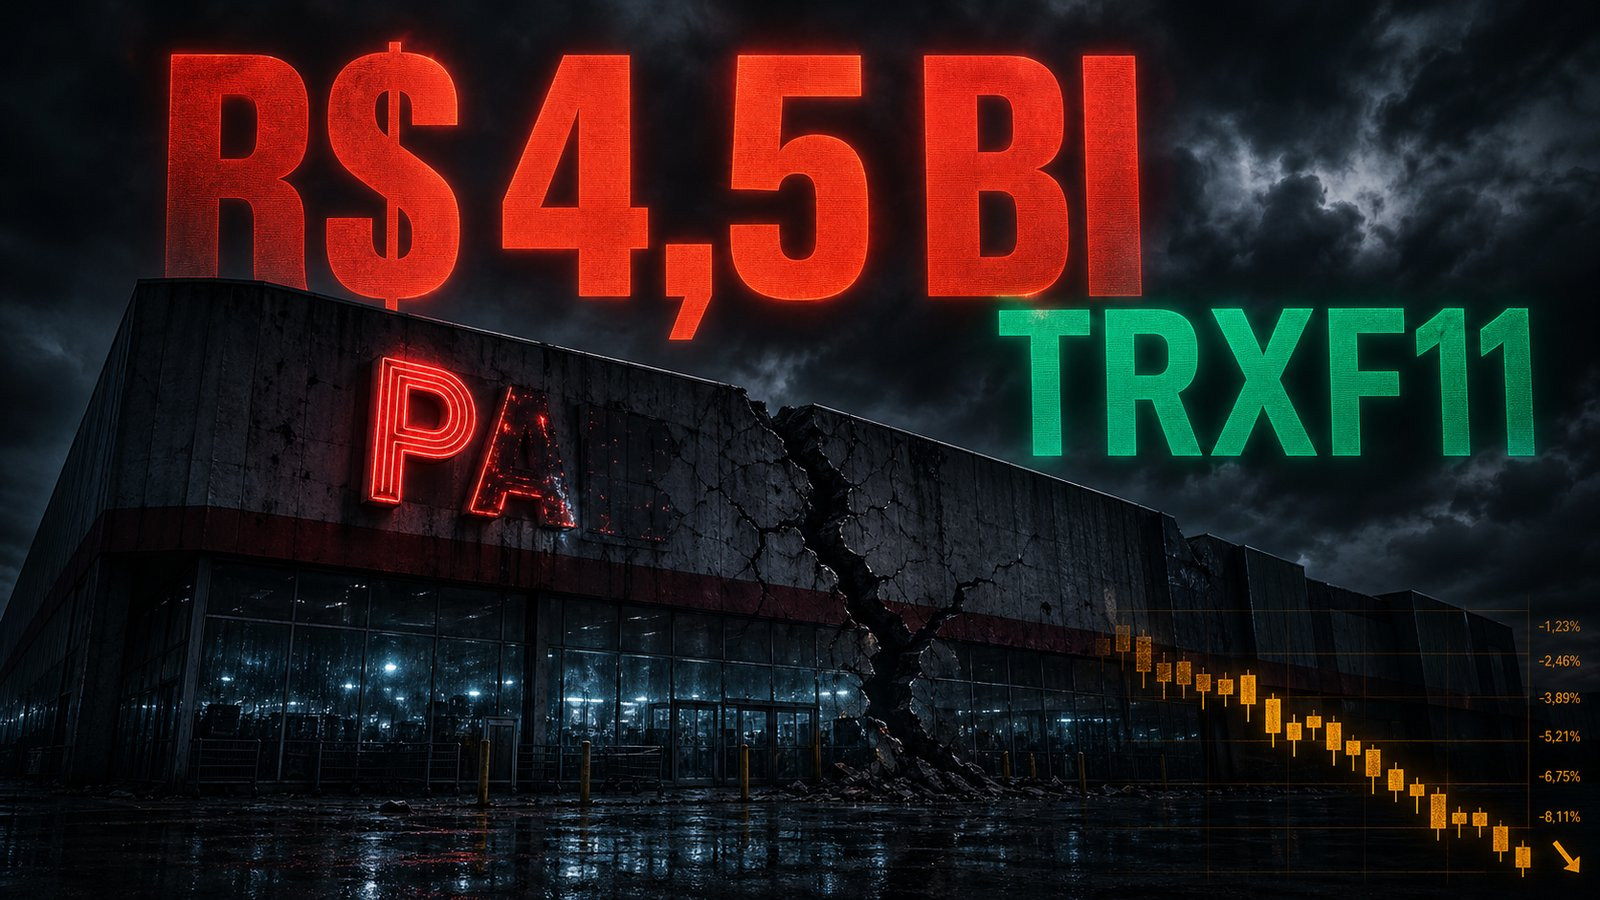
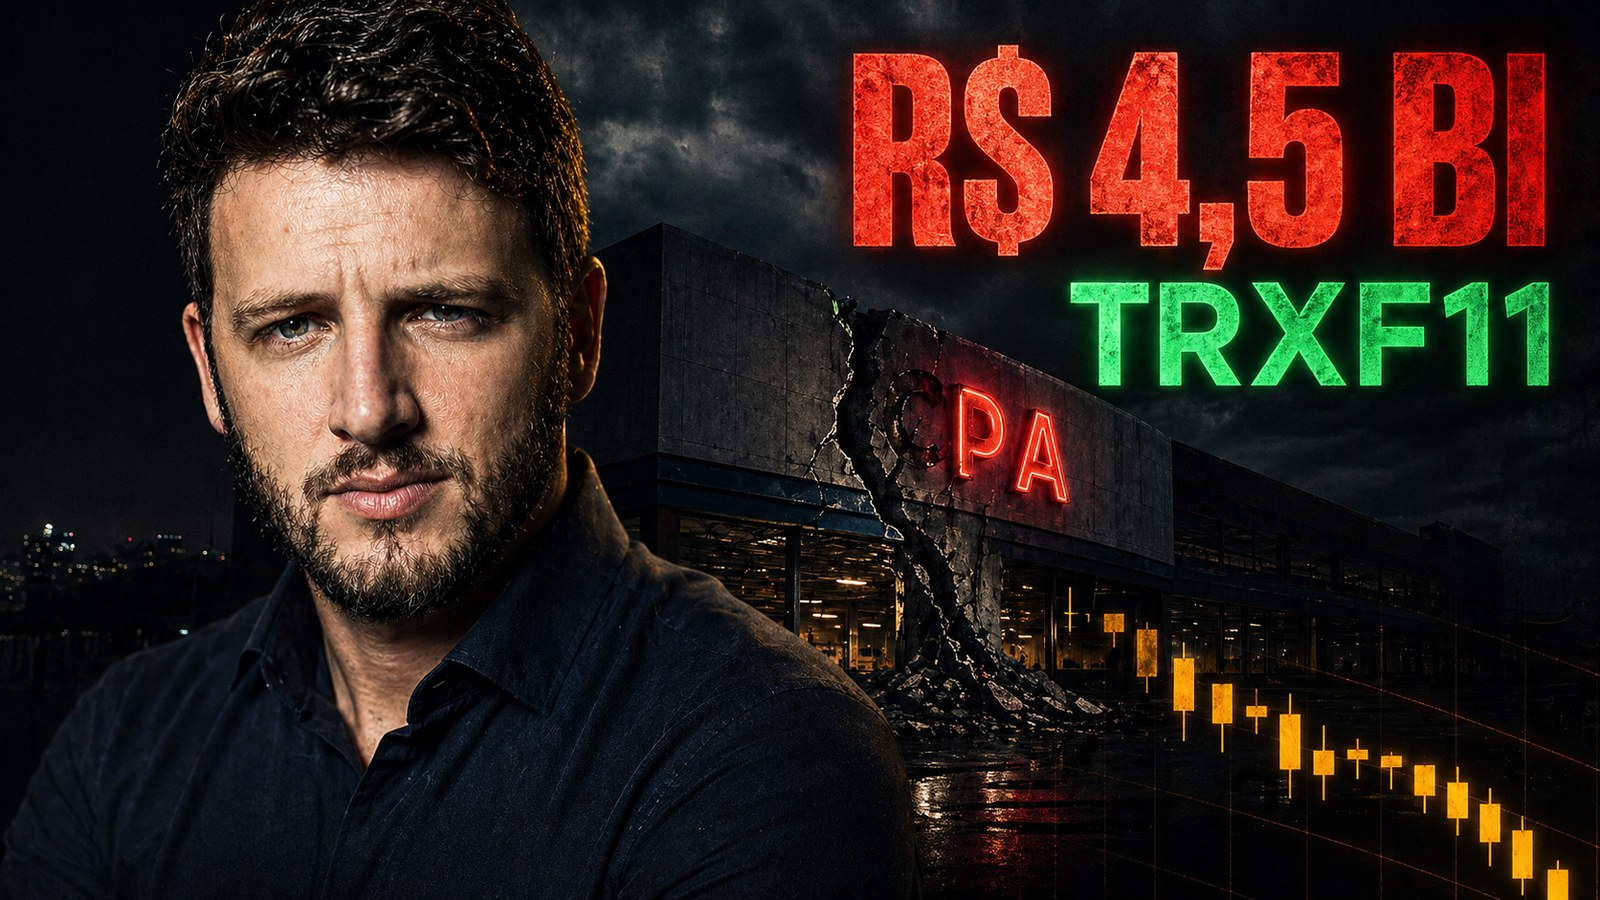
feat(artigo): TRXF11 v2 — título mais agressivo + capa com rosto do autor
Iteração v2 do artigo TRXF11 com base em feedback do autor:

- Título mais provocativo (com metáfora visual da rachadura, casando com a
  capa): "TRXF11: tem uma rachadura de R$ 4,5 bilhões debaixo de 24% do seu
  dividendo". Mantém 100% factual; provoca clique sem ser fake.
- Subtítulo aprimorado com hook "antes de você decidir vender, leia até o fim".
- Callout danger reformulado para "agride e apazigua" — provoca e já no mesmo
  parágrafo entrega o spoiler que mantém o leitor.
- Nova capa gerada via ChatGPT com o rosto do autor em primeiro plano,
  expressão séria/preocupada, supermercado decadente em segundo plano com
  rachadura, tipografia editorial pesada (R$ 4,5 BI / TRXF11). Padrão de
  conversão YouTube de finanças aplicado.
- SW APP_VERSION 4.15 → 4.16 para invalidar cache da capa anterior.

diff --git a/artigos/trxf11-gpa-recuperacao-24-pct-dividendo-2026.html b/artigos/trxf11-gpa-recuperacao-24-pct-dividendo-2026.html
@@ -3,15 +3,15 @@
 <head>
   <meta charset="UTF-8">
   <meta name="viewport" content="width=device-width, initial-scale=1.0">
-  <meta name="description" content="O TRXF11 dobrou de tamanho, comprou o Sírio-Libanês e a tese ficou linda. Mas 24,24% da receita continua no Pão de Açúcar — que pediu R$ 4,5 bilhões em recuperação extrajudicial em março de 2026. O que isso significa para o seu dividendo.">
+  <meta name="description" content="Tem uma rachadura de R$ 4,5 bilhões debaixo de 24% do dividendo do TRXF11 — e quase ninguém comentou. O fundo nota 8,5 acabou de comprar o Sírio-Libanês, mas o Pão de Açúcar (que paga 1 em cada 4 reais do caixa) pediu recuperação extrajudicial em março de 2026. Análise honesta do risco e do que continua valendo.">
   <meta name="keywords" content="TRXF11, Pão de Açúcar, GPA, recuperação extrajudicial, FII tijolo, renda urbana, dividendos FII, concentração de inquilino, TRX Real Estate">
   <meta name="author" content="Rico aos Poucos">
   <meta name="robots" content="index, follow">
   <link rel="canonical" href="https://ricoaospoucos.com.br/artigos/trxf11-gpa-recuperacao-24-pct-dividendo-2026.html">
   <meta name="theme-color" content="#0d1117">
 
-  <meta property="og:title" content="TRXF11: 24% do seu dividendo passa pelo caixa de uma empresa em recuperação de R$ 4,5 bi">
-  <meta property="og:description" content="O fundo nota 8,5 acabou de dobrar e comprou o Sírio-Libanês. Mas 1 em cada 4 reais que entra no caixa do TRXF11 ainda vem do Pão de Açúcar — em recuperação extrajudicial.">
+  <meta property="og:title" content="TRXF11: tem uma rachadura de R$ 4,5 bilhões debaixo de 24% do seu dividendo">
+  <meta property="og:description" content="O fundo nota 8,5 acabou de comprar o Sírio-Libanês e o mercado aplaudiu. Mas o Pão de Açúcar — que paga 1 em cada 4 reais do caixa do TRXF11 — pediu R$ 4,5 bilhões em recuperação extrajudicial.">
   <meta property="og:image" content="https://ricoaospoucos.com.br/artigos/imagens/capa-trxf11-gpa-2026.jpg">
   <meta property="og:image:width" content="1600">
   <meta property="og:image:height" content="900">
@@ -22,8 +22,8 @@
 
   <meta name="twitter:card" content="summary_large_image">
   <meta name="twitter:site" content="@ricoaospoucos">
-  <meta name="twitter:title" content="TRXF11: 24% do seu dividendo passa pelo caixa de uma empresa em recuperação de R$ 4,5 bi">
-  <meta name="twitter:description" content="O fundo nota 8,5 acabou de dobrar e comprou o Sírio-Libanês. Mas 1 em cada 4 reais ainda vem do Pão de Açúcar — em recuperação extrajudicial.">
+  <meta name="twitter:title" content="TRXF11: tem uma rachadura de R$ 4,5 bilhões debaixo de 24% do seu dividendo">
+  <meta name="twitter:description" content="O fundo nota 8,5 acabou de comprar o Sírio-Libanês e o mercado aplaudiu. Mas 1 em cada 4 reais ainda vem do Pão de Açúcar — em recuperação extrajudicial de R$ 4,5 bi.">
   <meta name="twitter:image" content="https://ricoaospoucos.com.br/artigos/imagens/capa-trxf11-gpa-2026.jpg">
 
   <link rel="icon" type="image/png" sizes="192x192" href="../icon-192.png">
@@ -32,7 +32,7 @@
   <link rel="shortcut icon" href="../icon-192.png">
   <link rel="manifest" href="../manifest.json">
 
-  <title>TRXF11: 24% do seu dividendo passa pelo caixa de uma empresa em recuperação de R$ 4,5 bi - Rico aos Poucos</title>
+  <title>TRXF11: tem uma rachadura de R$ 4,5 bilhões debaixo de 24% do seu dividendo - Rico aos Poucos</title>
   <link rel="stylesheet" href="../css/style.css">
   <link rel="stylesheet" href="../css/article-fii.css">
 
@@ -40,8 +40,8 @@
   {
     "@context": "https://schema.org",
     "@type": "Article",
-    "headline": "TRXF11: 24% do seu dividendo passa pelo caixa de uma empresa em recuperação extrajudicial",
-    "description": "O fundo nota 8,5 acabou de dobrar de tamanho e comprou o Sírio-Libanês. Mas 1 em cada 4 reais que entra no TRXF11 ainda vem do Pão de Açúcar — que pediu R$ 4,5 bilhões em recuperação extrajudicial em março de 2026. O que isso significa para o seu dividendo.",
+    "headline": "TRXF11: tem uma rachadura de R$ 4,5 bilhões debaixo de 24% do seu dividendo",
+    "description": "O fundo nota 8,5 acabou de comprar o Sírio-Libanês e o mercado aplaudiu. Mas o Pão de Açúcar — que paga 1 em cada 4 reais do caixa do TRXF11 — pediu R$ 4,5 bilhões em recuperação extrajudicial em março de 2026. O gestor diz que está tudo bem. A história do varejo brasileiro diz que esse 'tudo bem' tem prazo de validade.",
     "datePublished": "2026-04-27",
     "dateModified": "2026-04-27",
     "author": { "@type": "Organization", "name": "Rico aos Poucos", "url": "https://ricoaospoucos.com.br" },
@@ -75,9 +75,9 @@
     <article class="article-container" style="flex:1;">
       <div class="article-header">
         <span class="nivel-badge intermediario">FII Tijolo</span>
-        <span class="nivel-badge urgente">Risco de concentração</span>
-        <h1>TRXF11: 24% do seu dividendo passa pelo caixa de uma empresa em recuperação extrajudicial</h1>
-        <p class="subtitle">O fundo nota 8,5 acabou de dobrar de tamanho, incorporou o TRXB11, comprou o Sírio-Libanês e o mercado celebra. Mas 1 em cada 4 reais que entra no TRXF11 ainda passa pelo caixa do Pão de Açúcar — que pediu R$ 4,5 bilhões em recuperação extrajudicial em março de 2026. O gestor diz que está tudo bem. A história mostra que esse "tudo bem" tem nuances.</p>
+        <span class="nivel-badge urgente">Rachadura de R$ 4,5 bi</span>
+        <h1>TRXF11: tem uma rachadura de R$ 4,5 bilhões debaixo de 24% do seu dividendo</h1>
+        <p class="subtitle">O fundo nota 8,5 acabou de comprar o Sírio-Libanês e o mercado aplaudiu. Mas o Pão de Açúcar — que paga 1 em cada 4 reais que entram no caixa do TRXF11 — pediu R$ 4,5 bilhões em recuperação extrajudicial em março de 2026. O gestor diz que está tudo bem. A história do varejo brasileiro diz que esse "tudo bem" tem prazo de validade. Antes de você decidir vender, ler até o fim — o cenário não é o que parece à primeira vista.</p>
         <div class="article-meta">
           <span>📅 27 de Abril de 2026</span>
           <span>⏱ 8 min de leitura</span>
@@ -92,8 +92,8 @@
       <div class="article-content">
 
         <div class="callout danger">
-          <h3>⚠ A frase que ninguém colou no relatório de fechamento</h3>
-          <p>Em <strong>março de 2026</strong>, o Grupo Pão de Açúcar (GPA) protocolou um pedido de <strong class="text-amber-400">recuperação extrajudicial sobre R$ 4,5 bilhões de dívida financeira</strong>. No mesmo mês, o TRXF11 concluiu sua 12ª emissão, dobrou o número de cotas e adicionou o Hospital Sírio-Libanês como inquilino-troféu. Os holofotes do mercado foram para a aquisição. Mas <strong class="text-amber-400">24,24% da receita do fundo continua dependendo do GPA</strong> — Pão de Açúcar, Extra e Sam's Club, todas marcas do mesmo grupo. É a maior concentração de inquilino do portfólio.</p>
+          <h3>⚠ Antes de você correr para vender, leia esta linha:</h3>
+          <p>Em <strong>março de 2026</strong>, o Grupo Pão de Açúcar (GPA) protocolou um pedido de <strong class="text-amber-400">recuperação extrajudicial sobre R$ 4,5 bilhões de dívida financeira</strong>. No mesmo mês, o TRXF11 concluiu sua 12ª emissão, dobrou o número de cotas e adicionou o Hospital Sírio-Libanês como inquilino-troféu. Os holofotes do mercado foram para a aquisição. Mas <strong class="text-amber-400">24,24% da receita do fundo continua dependendo do GPA</strong> — Pão de Açúcar, Extra e Sam's Club, todas marcas do mesmo grupo. É a maior concentração de inquilino do portfólio. <strong class="text-emerald-400">Spoiler:</strong> a rachadura existe, é grande, mas o prédio não está caindo. Está balançando. E como você se posiciona depende de saber a diferença.</p>
         </div>
 
         <h2>Foto atual do TRXF11 (Mar/2026)</h2>

diff --git a/sw.js b/sw.js
@@ -1,4 +1,4 @@
-const APP_VERSION = '4.15';
+const APP_VERSION = '4.16';
 const CACHE_NAME = `rico-aos-poucos-v${APP_VERSION}`;
 
 // Recursos críticos - cacheados na instalação (mínimo para funcionar)
